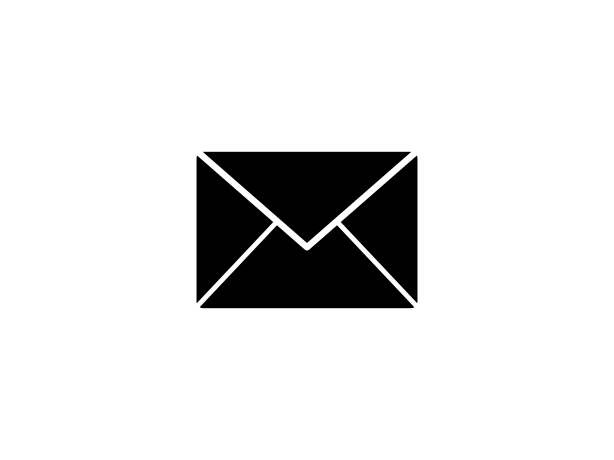
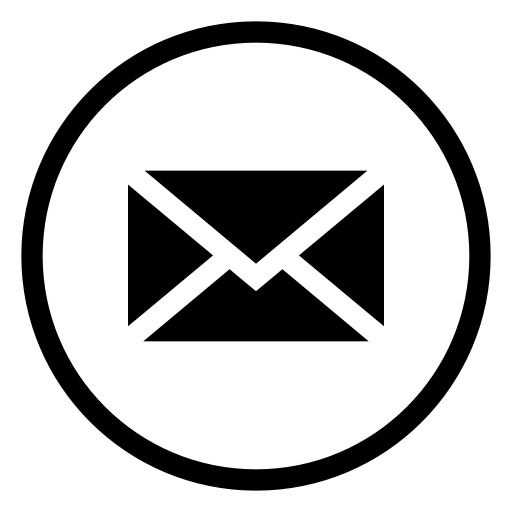
post hackathon

Changed region(s): [[0.0312, 0.0304, 0.9688, 0.9739], [0.25, 0.3043, 0.75, 0.6696]]

diff --git a/index.html b/index.html
@@ -3,45 +3,50 @@
 <head>
     <!-- Latest compiled and minified CSS -->
     <link rel="stylesheet" href="https://maxcdn.bootstrapcdn.com/bootstrap/3.3.5/css/bootstrap.min.css">
-    <link href="https://fonts.googleapis.com/css?family=Oswald" rel="stylesheet">
+    <link href="https://fonts.googleapis.com/css?family=Oswald|Overpass" rel="stylesheet">
 	<link rel="stylesheet" type="text/css" href="style.css">
 	<title>Elisa Danthinne</title>
 </head>
 
 <body>
-	<div id="name"><h1>Elisa Danthinne</h1></div>
-	<div class="container">
+	<div id="name"><h1>elisa danthinne</h1></div>
+	<div class="container-fluid">
     <div class="row">
 		  <div class="col-md-4">
 		  	<a href="#about">
-		  		<div class="dogpic">
+		  		<div class="dogpic menu-image">
 		  			<img src="dog1.jpg" alt="About" class="img-responsive" style="display:inline">
 		  				</br>
-		  				<button type="button" class="btn btn-success">About</button>
+		  			<div class="content">
+			  			about
+			  		</div>
 		  		</div>
 		  	</a>
 		  </div>
 		  <div class="col-md-4">
 		  	<a href="#experience">
-		  		<div class="catpic">
+		  		<div class="catpic menu-image">
 			  		<img src="cat.jpg" alt="" class="img-responsive" style="display:inline">
 			  			</br>
-			  			Experience
+			  		<div class="content">
+			  			experience
+			  		</div>
 			  	</div>
 		  	</a>
 		  </div>
 		  <div class="col-md-4">
 		  	<a href="#contact">
-		  		<div class="dogpic2">
+		  		<div class="dogpic2 menu-image">
 			  		<img src="dog2.jpg" alt="" class="img-responsive" style="display:inline">
 			  			</br>
-			  			Contact
+			  		<div class="content">
+			  			contact
+			  		</div>
 		  		</div>
 		  	</a>
 		  </div>
 	</div>
 	</div>
-	</br>
 	</br>
 	</br>
 	</br>
@@ -52,11 +57,11 @@
 		<div class="row">
 		</br>
 			<div class="col-md-8">
-				<p class="bio">My name is Elisa and here is an engaging description of me!!! </p></br></br><p class="bio"> I like dogs AND cats! </p>
+				<h3 class="bio">My name is Elisa and here is an engaging description of me!!! I will talk about my interests, origin, etc. here and anything else relevant enough to include. </h3></br><p class="bio"> I like dogs AND cats! </p>
 			</div>
 			<div class="col-md-4">
 				<div class="catpic2">
-					<img src="cat2.jpg" alt="" class="img-responsive img-circle" style="display:inline" style="display:inline" width="300px">
+					<img src="Danthinne2.JPG" alt="" class="img-responsive img-circle" style="display:inline" width="200px" height="200px">
 				</div>
 			</div>
 		</div>
@@ -67,14 +72,27 @@
 
 	<section id="experience">
 	<div class="container">
-		<h2>Experience</h2>
+		<h2 class="cat-title">experience</h2>
 		<div class="row">
-		</br>
-			<div class="col-md-8">
-				<p class="bio">My name is Elisa and here is an engaging description of me!!! </p></br></br><p class="bio"> I like dogs AND cats! </p></br></br><p class="bio"> I like dogs AND cats! </p>
+			</br>
+			<div class="col-md-5">
+				<img src="pokerdogs.jpg" alt="" class="img-responsive" width="500px">
 			</div>
-			<div class="col-md-4">
-				<img src="cat2.jpg" alt="" class="img-responsive" style="display:inline" style="display:inline" width="300px">
+			<div class="col-md-7">
+				<h3 class="bio">Here's a project I've worked on: </h3>
+				</br></br>
+				<p class="bio"> Now I'm going to describe the project in more detail. It was a really immersive experience. I love it. </p></br></br>
+			</div>
+		</div>
+		<div class="row">
+			</br>
+			<div class="col-md-5">
+				<img src="pokerdogs.jpg" alt="" class="img-responsive" width="500px">
+			</div>
+			<div class="col-md-7">
+				<h3 class="bio">Here's a project I've worked on: </h3>
+				</br></br>
+				<p class="bio"> Now I'm going to describe the project in more detail. It was a really immersive experience. I love it. </p></br></br>
 			</div>
 		</div>
 		</div>
@@ -86,23 +104,28 @@
 	<div class="container">
 		<div class="row">
 		</br>
-			<div class="col-md-4">
-				<h2>Contact</h2>
+			<div class="col-md-6">
+				<h2 class="cat-title contact-title">contact</h2>
 			</div>
-			<div class="col-md-2"></div>
 			<div class="col-md-2">
-				<div class="contact">
-					<img src="email.jpeg" alt="" class="img-responsive" style="display:inline" style="display:inline">
+				<div class="contact menu-image">
+					<a href="danthinne.e@husky.neu.edu">
+						<img src="email.png" alt="" class="img-responsive" style="display:inline" style="display:inline">
+					</a>
 				</div>
 			</div>
 			<div class="col-md-2">
-				<div class="contact">
-					<img src="github.png" alt="" class="img-responsive img-circle" style="display:inline" style="display:inline">
+				<div class="contact menu-image">
+					<a href="https://github.com/danthinnee">
+						<img src="github.png" alt="" class="img-responsive img-circle" style="display:inline" style="display:inline">
+					</a>
 				</div>
 			</div>
 			<div class="col-md-2">
-				<div class="contact">
-					<img src="linkedin.png" alt="" class="img-responsive" style="display:inline" style="display:inline">
+				<div class="contact menu-image">
+					<a href="www.linkedin.com/in/elisa-danthinne">
+						<img src="linkedin.png" alt="" class="img-responsive" style="display:inline" style="display:inline">
+					</a>
 				</div>
 			</div>
 		</div>

diff --git a/style.css b/style.css
@@ -9,15 +9,16 @@ button {
 }
  h2 {
  	color: white;
+ 	font-family: 'Overpass', sans-serif;
  }
 #name {
-	background-color: #800000;
-	text-align: left;
+	background-image: url("titlebackground.jpg");
+	text-align: right;
 	color: white;
 	border-radius: 25px;
 	padding-top: 2%;
 	padding-bottom: 3%;
-	padding-left: 3%;
+	padding-right: 3%;
 	margin-top: 1%;
 }
 
@@ -30,29 +31,26 @@ li {
    	float: left;
 }
 
+hr {
+ 	margin-left: 100px;
+ 	margin-right: 100px;
+ }
 .dogpic {
 	margin-top: 10%;
-	/*float: right;
-	position: relative;
+	/*
   	left: -10%; 
 	margin-left: -80px;*/
-	/*width: 120%;*/
     /*border-radius: 2500px; */
 }
 
 .catpic {
-	/*float: right;
-	position: relative;
-	margin-left: 5%;*/
+	/*margin-left: 5%;*/
  	margin-top: 10%;
- 	/*width: 120%;*/
  }
 
 .dogpic2 {
-	/*float: left;
-	margin-right: 0%;*/
+	/*margin-right: 0%;*/
 	margin-top: 10%;
-	/*width: 120%;*/
 }
 
  .bio {
@@ -66,3 +64,36 @@ li {
  	border-radius: 25px;
  }
 
+.cat-title {
+	font-size: 300%;
+	padding-left: 5%;
+}
+
+.contact-title {
+	padding-top: 5%;
+	padding-left: 10%;
+}
+
+
+
+.col-md-4 {
+	padding: 0 0 0 0;
+}
+
+
+.menu-image img {
+    opacity: 0.8;
+}
+
+.menu-image img:hover {
+    opacity: 0.4;
+}
+
+.content {
+	position: absolute;
+	margin-top:-180px;
+	margin-left:40%;
+	font-weight:bold;
+	color:white;
+	font-size:150%;
+}
